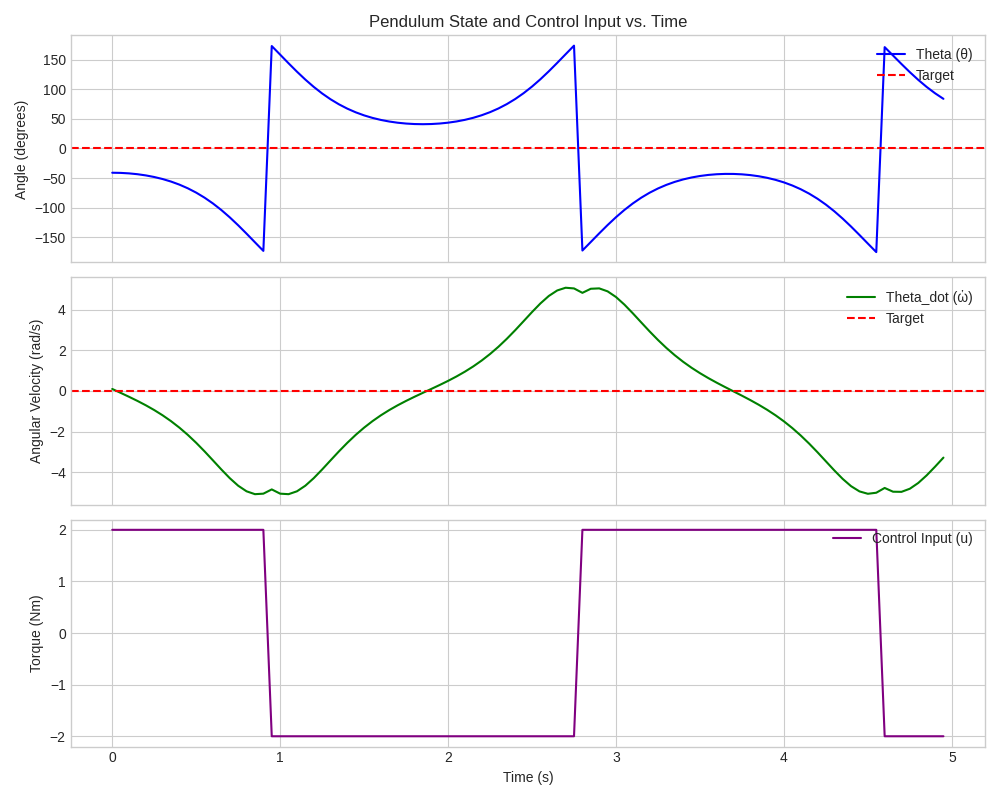
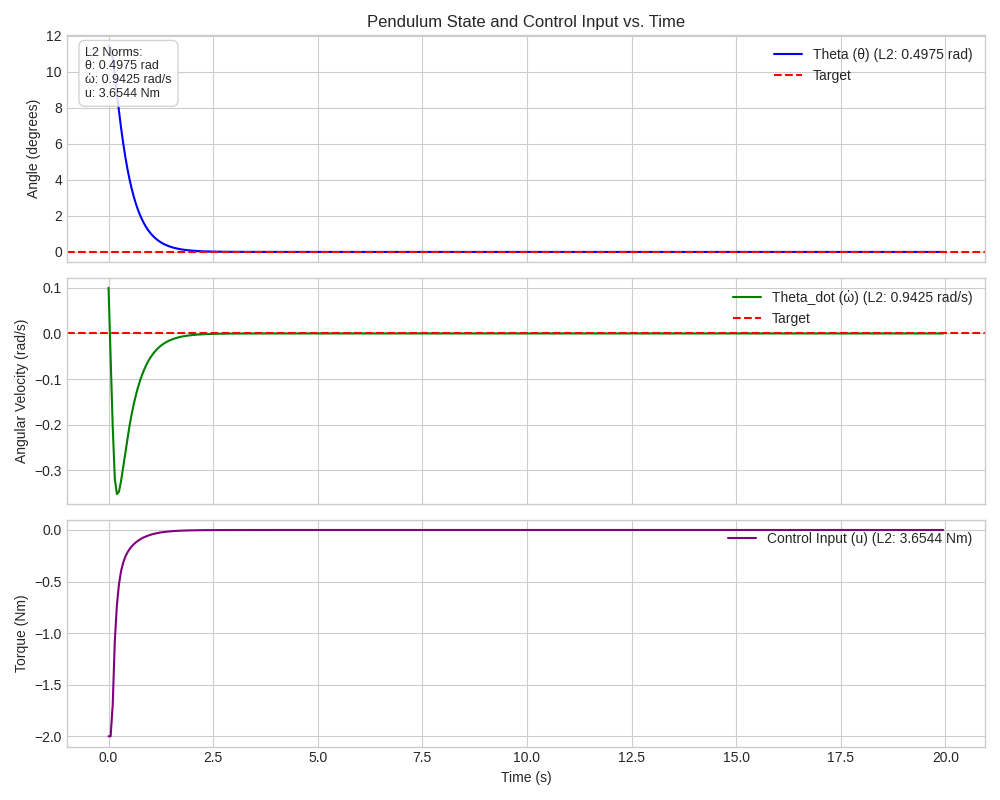
feat: add L2 norm calculations and visualization to LQR simulation plots and update swing-up response images

diff --git a/control/lqr_pendulum.py b/control/lqr_pendulum.py
@@ -78,9 +78,9 @@ def run_lqr_control(swingup=False, sim_time=None):
     # Reset environment to a random initial state
     obs, info = env.reset()
 
-    # Set the initial state based on whether swing-up control is active
+    # Set the initial state based on whether swing-up control is active````
     if swingup:
-        initial_angle =  np.pi  # Start at the bottom
+        initial_angle =  np.pi #-np.deg2rad(41)#np.pi  # Start at the bottom
         initial_velocity = 0.0
     else:
         # LQR is a local controller. Start near the upright position (theta=0).
@@ -151,24 +151,48 @@ def plot_results(history, swingup=False):
     """
     Plots the simulation results: angle, angular velocity, and control input.
     """
+    # Compute L2 norms
+    theta_rad_l2 = np.linalg.norm(history['theta'])
+    theta_deg_l2 = np.linalg.norm(np.rad2deg(history['theta']))
+    theta_dot_l2 = np.linalg.norm(history['theta_dot'])
+    torque_l2 = np.linalg.norm(history['control_input'])
+
+    # Print to console
+    print("\n--- Simulation L2 Norms ---")
+    print(f"Angle (theta) L2 Norm: {theta_rad_l2:.4f} rad ({theta_deg_l2:.4f} deg)")
+    print(f"Angular Velocity (theta_dot) L2 Norm: {theta_dot_l2:.4f} rad/s")
+    print(f"Torque (u) L2 Norm: {torque_l2:.4f} Nm")
+    print("----------------------------\n")
+
     plt.style.use('seaborn-v0_8-whitegrid')
     fig, axs = plt.subplots(3, 1, figsize=(10, 8), sharex=True)
 
     # Plot 1: Pendulum Angle (theta)
-    axs[0].plot(history['time'], np.rad2deg(history['theta']), label='Theta (θ)', color='b')
+    axs[0].plot(history['time'], np.rad2deg(history['theta']), label=f'Theta (θ) (L2: {theta_rad_l2:.4f} rad)', color='b')
     axs[0].axhline(0, color='r', linestyle='--', label='Target')
     axs[0].set_ylabel('Angle (degrees)')
     axs[0].set_title('Pendulum State and Control Input vs. Time')
     axs[0].legend(loc='upper right')
 
+    # Add text box with L2 norms on the first plot
+    textstr = (
+        f"L2 Norms:\n"
+        f"θ: {theta_rad_l2:.4f} rad\n"
+        f"ὡ: {theta_dot_l2:.4f} rad/s\n"
+        f"u: {torque_l2:.4f} Nm"
+    )
+    props = dict(boxstyle='round,pad=0.5', facecolor='white', alpha=0.85, edgecolor='#cccccc')
+    axs[0].text(0.02, 0.95, textstr, transform=axs[0].transAxes, fontsize=9,
+                verticalalignment='top', bbox=props)
+
     # Plot 2: Pendulum Angular Velocity (theta_dot)
-    axs[1].plot(history['time'], history['theta_dot'], label='Theta_dot (ὡ)', color='g')
+    axs[1].plot(history['time'], history['theta_dot'], label=f'Theta_dot (ὡ) (L2: {theta_dot_l2:.4f} rad/s)', color='g')
     axs[1].axhline(0, color='r', linestyle='--', label='Target')
     axs[1].set_ylabel('Angular Velocity (rad/s)')
     axs[1].legend(loc='upper right')
 
     # Plot 3: Control Input (Torque)
-    axs[2].plot(history['time'], history['control_input'], label='Control Input (u)', color='purple')
+    axs[2].plot(history['time'], history['control_input'], label=f'Control Input (u) (L2: {torque_l2:.4f} Nm)', color='purple')
     axs[2].set_xlabel('Time (s)')
     axs[2].set_ylabel('Torque (Nm)')
     axs[2].legend(loc='upper right')